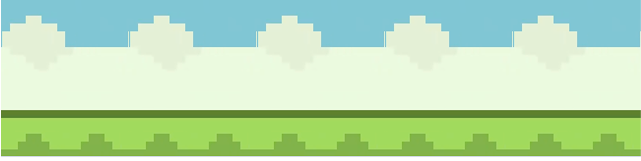
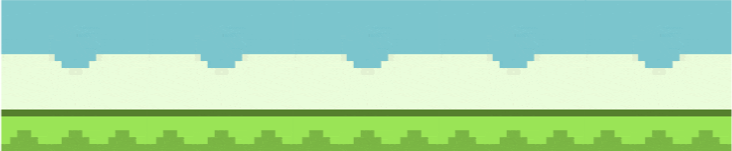
sharper pipes and ground

diff --git a/sketch.js b/sketch.js
@@ -4,6 +4,7 @@ let bgImg, pipeBodyImg, pipeLipImg, pipeLipBottomImg, groundImg;
 let hippo;
 let pipes = [];
 let ground1, ground2;
+let groundWidth = 731;
 let score = 0;
 let gameOver = false;
 let groundHeight = 50;
@@ -67,7 +68,7 @@ function resetGame() {
   gameOver = false;
   scrollSpeed = 10 * scale / 6;
   ground1 = { x: 0 };
-  ground2 = { x: width };
+  ground2 = { x: groundWidth };
   interactionAllowed = true;
   if (backgroundMusic && !backgroundMusic.isPlaying()) {
     backgroundMusic.loop();
@@ -77,7 +78,29 @@ function resetGame() {
 // Main game loop
 function draw() {
   // Draw the background
-  image(bgImg, 0, 0, width, height);
+  background(128, 198, 212); // sky blue
+
+  let imgRatio = bgImg.width / bgImg.height;
+  let canvasRatio = width / height;
+  
+  let bgWidth, bgHeight, bgX, bgY;
+  
+  if (canvasRatio > imgRatio) {
+    // Canvas is wider than image ratio - scale to width
+    bgWidth = width;
+    bgHeight = width / imgRatio;
+    bgX = 0;
+    bgY = (height - bgHeight) / 2; // Center vertically
+  } else {
+    // Canvas is taller than image ratio - scale to height
+    bgHeight = height;
+    bgWidth = height * imgRatio;
+    bgX = (width - bgWidth) / 2; // Center horizontally
+    bgY = 0;
+  }
+  
+  // Draw the background image with proper proportions
+  image(bgImg, bgX, bgY, bgWidth, bgHeight);
 
   if (!gameStarted) {
     textSize(20 * scale);
@@ -89,12 +112,12 @@ function draw() {
     hippo.update();
 
     // Draw and update scrolling ground
-    image(groundImg, ground1.x, height - groundHeight, width, groundHeight);
-    image(groundImg, ground2.x, height - groundHeight, width, groundHeight);
+    image(groundImg, ground1.x, height - groundHeight, groundWidth, groundHeight);
+    image(groundImg, ground2.x, height - groundHeight, groundWidth, groundHeight);
     ground1.x -= scrollSpeed;
     ground2.x -= scrollSpeed;
-    if (ground1.x <= -width) ground1.x = width;
-    if (ground2.x <= -width) ground2.x = width;
+    if (ground1.x <= -groundWidth) ground1.x = groundWidth;
+    if (ground2.x <= -groundWidth) ground2.x = groundWidth;
 
     // Manage pipes
     for (let i = pipes.length - 1; i >= 0; i--) {
@@ -292,13 +315,13 @@ class Pipe {
   draw() {
     // Draw top pipe
     image(pipeBodyImg, this.x, 0, this.width, this.topHeight);
-    image(pipeLipTopImg, this.x, this.topHeight - (pipeLipTopImg.height * scale), this.width, pipeLipTopImg.height * scale);
+    image(pipeLipTopImg, this.x, this.topHeight - (pipeLipTopImg.height * scale / 2), this.width, pipeLipTopImg.height * scale / 2);
     
     // Draw bottom pipe
     let bottomY = this.topHeight + this.gapSize;
     let bottomHeight = height - bottomY;
     image(pipeBodyImg, this.x, bottomY, this.width, bottomHeight);
-    image(pipeLipBottomImg, this.x, bottomY, this.width, pipeLipBottomImg.height * scale);
+    image(pipeLipBottomImg, this.x, bottomY, this.width, pipeLipBottomImg.height * scale / 2);
   }
 
   offscreen() {
